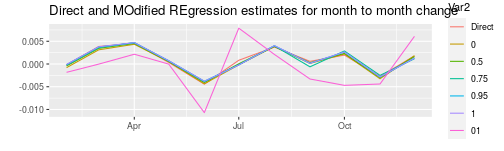
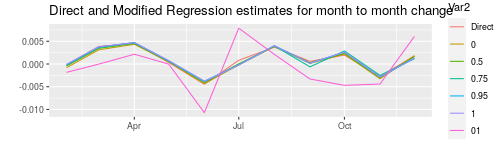
No information

Changed region(s): [[0.2381, 0.0265, 0.9226, 0.1325]]

diff --git a/README.tex.md b/README.tex.md
@@ -3,6 +3,11 @@ title: "Composite Regression for Repeated Surveys"
 author: Daniel Bonnery
 ---
 
+<p align="center">
+  <img width="128" src="logo/logo_4.4.png" />
+</p>
+
+
 `CompositeRegressionEstimation` is an R package that allows to compute estimators for longitudinal survey:
 
 * Modified Regression : "Singh, A.~C., Kennedy, B., and Wu, S. (2001). Regression composite estimation for the Canadian Labour Force Survey: evaluation and implementation, Survey Methodology}, 27(1):33--44.", "Singh, A.~C., Kennedy, B., Wu, S., and Brisebois, F. (1997). Composite estimation for the Canadian Labour Force Survey. Proceedings of the Survey Research Methods Section, American Statistical Association}, pages 300--305."  "Singh, A.~C. and Merkouris, P. (1995).  Composite estimation by modified regression for repeated surveys. Proceedings of the Survey Research Methods Section, American Statistical Association}, pages 420--425."
@@ -647,7 +652,7 @@ YMR<-MR(list.tables,
 
 ```r
    diffUMR<-cbind(Direct=U,Composite=UMR)[-1,]-cbind(Direct=U,Composite=UMR)[-12,]
-   ggplot(data=reshape2::melt(cbind(diffUMR)),aes(x=as.Date(paste0(Var1,"01"),"%Y%m%d"),y=value,group=Var2,color=Var2))+geom_line()+xlab("")+ylab("")+ggtitle("Direct and MOdified REgression estimates for month to month change")
+   ggplot(data=reshape2::melt(cbind(diffUMR)),aes(x=as.Date(paste0(Var1,"01"),"%Y%m%d"),y=value,group=Var2,color=Var2))+geom_line()+xlab("")+ylab("")+ggtitle("Direct and Modified Regression estimates for month to month change")
 ```
 
 <img src="figure/unnamed-chunk-21-2.png" title="plot of chunk unnamed-chunk-21" alt="plot of chunk unnamed-chunk-21" width="100%" />
